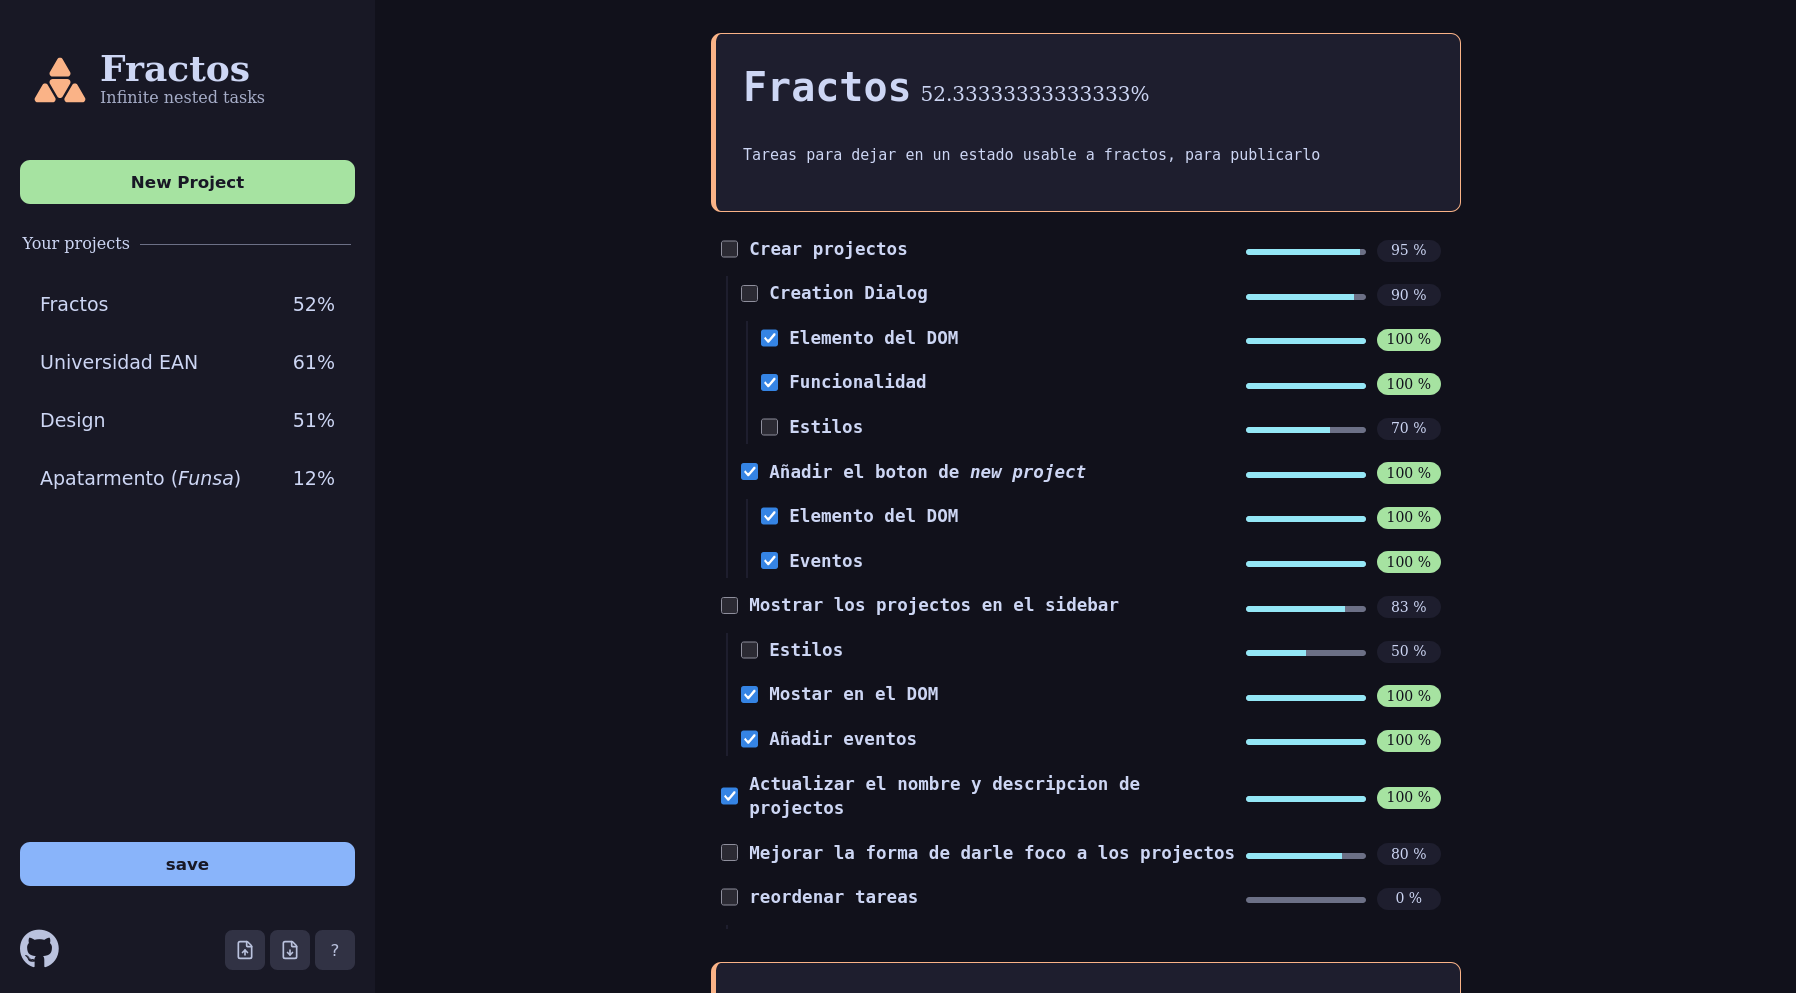
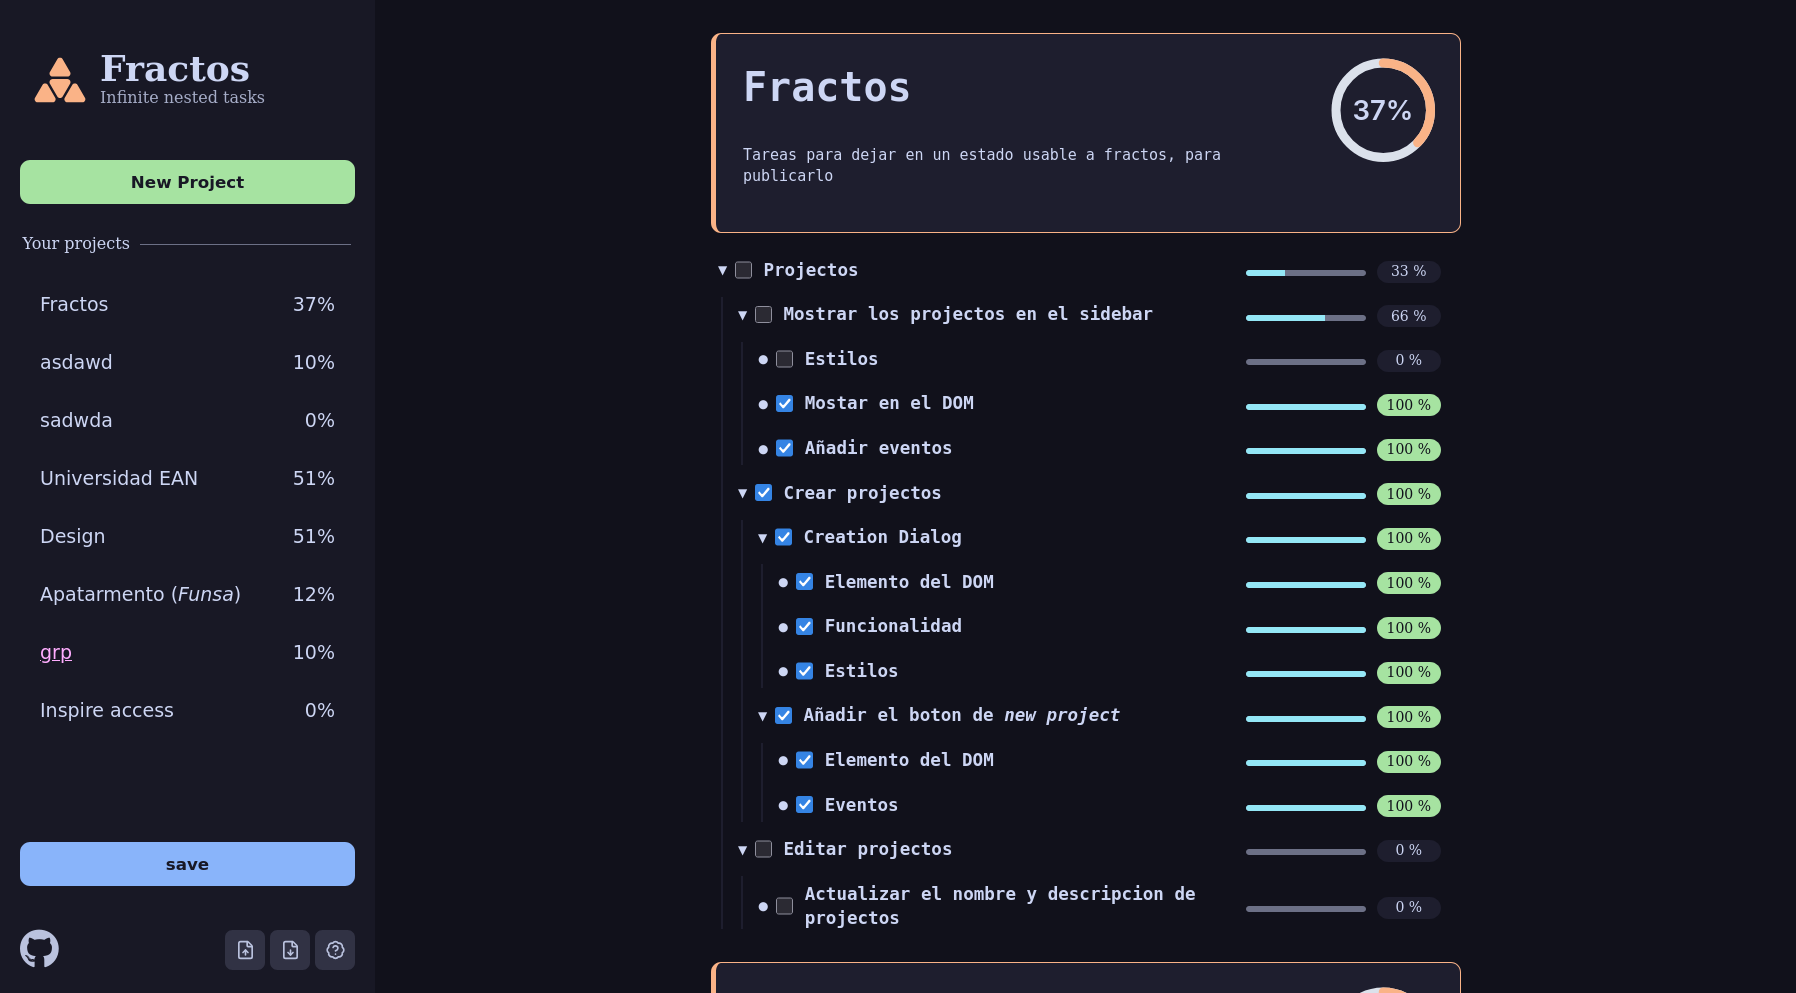
feat: change load order

diff --git a/app/home/home.ts b/app/home/home.ts
@@ -36,10 +36,9 @@ class App {
 
     document.querySelector('.loader')?.remove();
     
-    this.main();
-    this.side();
-
     this.buttons();
+    this.side();
+    this.main();
 
     this.ldoc.subscribeLocalUpdates((e) => {
       this.chanel.postMessage({ updates: e });
@@ -51,7 +50,6 @@ class App {
   }
   
   async main() {
-    console.time("3. creating main view")
     const __view = document.getElementById("view")!;
     this.__view = __view;
     
@@ -70,10 +68,12 @@ class App {
       }
     })
     
+    console.time("3. creating main view");
     this.mainView = new FractosView({
       state: this.state,
       parent: __view,
       renderer,
+      // mode: { type: "none" }
     })
     console.timeEnd("3. creating main view")
   
